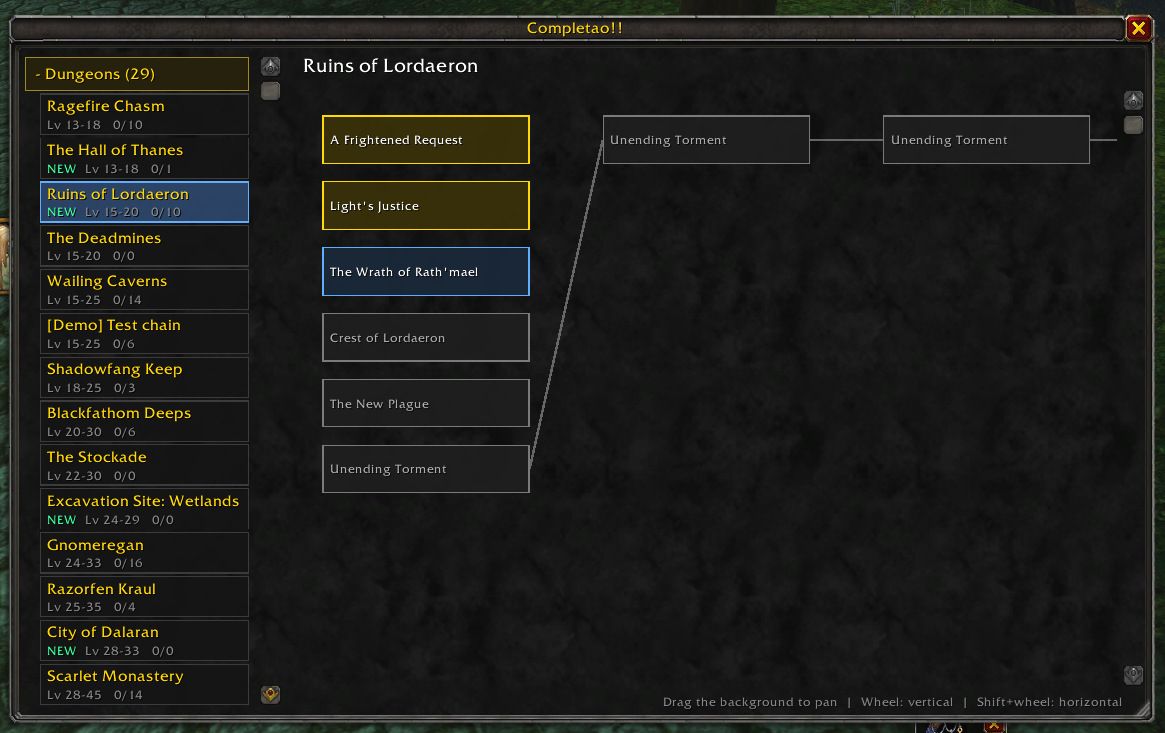
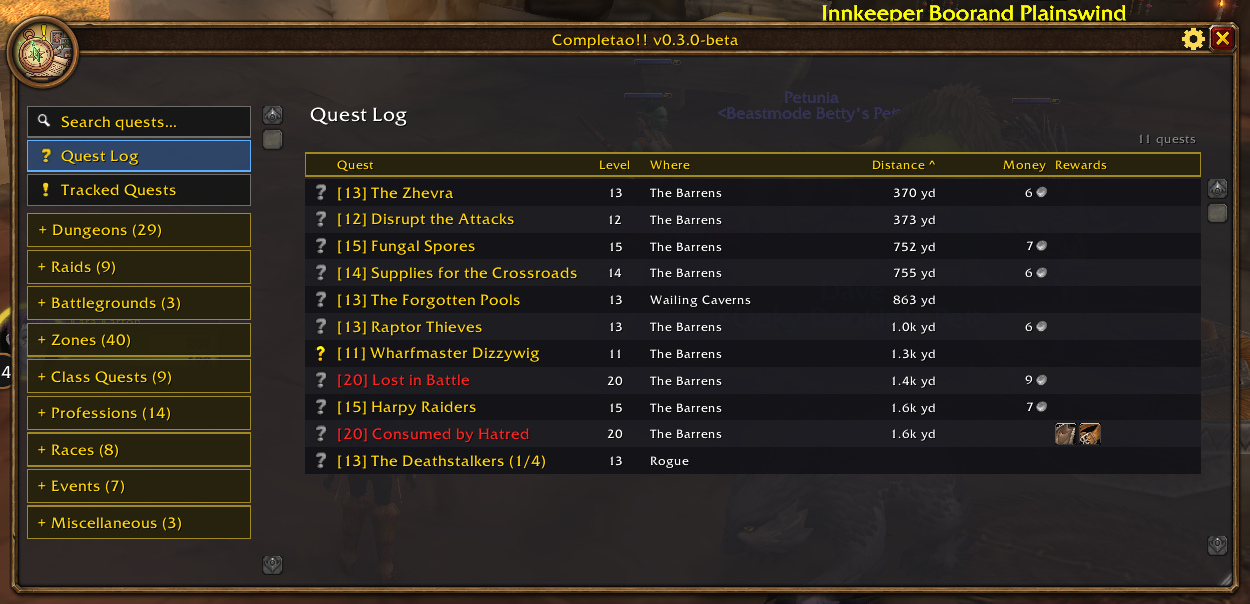
docs: new screenshots and CurseForge description for 0.3.0-beta

diff --git a/CURSEFORGE_DESCRIPTION.md b/CURSEFORGE_DESCRIPTION.md
@@ -10,7 +10,7 @@ Dungeons, raids, battlegrounds, zones, class and profession quests, races and
 world events are in, with more on the way.
 Currently in **beta**.
 
-![Main window](https://media.joanvilarino.online/completao/images/screencaps/main_window.png)
+![Your quest log, in the Completao!! window](https://media.joanvilarino.online/completao/images/screencaps/main_window.png)
 
 ---
 
@@ -24,6 +24,8 @@ and the lines between them turn green as you move down a chain. Only the quests
 of your own faction are shown. Drag the background to pan the tree and use the
 mouse wheel to **zoom** in or out to see more at once (Shift + wheel to go
 sideways, Ctrl + wheel vertically); your zoom is remembered.
+
+![A dungeon's quest chains](https://media.joanvilarino.online/completao/images/screencaps/quest_tree.png)
 
 ### A side panel that grows with the addon
 Sections are collapsible: open **Dungeons**, **Raids** (Molten Core, Blackwing
@@ -48,8 +50,26 @@ to include low-level, too-high and completed quests, or look for a reward type
 -- say, *Weapon > Wands* -- or keep only quests that give an item. Results come
 as a table with level, location, money and the reward icons (hover for the
 item tooltip), sortable by title, level or money; click one to jump to its
-tree with the quest selected. **Quest Log** shows the quests you carry in the
-same table.
+tree with the quest selected. Every row starts with the quest's `[level]`
+(`D` for dungeon quests, `+` for elite ones), and the **Distance** column shows
+how far each quest's next step is from you -- sort by it and the table re-sorts
+as you move.
+
+![Searching for leather armor rewards](https://media.joanvilarino.online/completao/images/screencaps/search_quests.png)
+
+### Your quest log, and the quests you track
+**Quest Log** shows the quests you carry in the same table, with a status icon
+(ready to hand in / in progress) next to each, colored by difficulty for your
+level.
+
+![The Quest Log view](https://media.joanvilarino.online/completao/images/screencaps/quest_log.png)
+
+**Tracked Quests** narrows it to the ones in your objective tracker and lists,
+under each quest, its objectives with live progress: finished ones checked, the
+next one in gold, and only the turn-in once the quest is ready. Click an
+objective to set your waypoint on it.
+
+![The Tracked Quests view](https://media.joanvilarino.online/completao/images/screencaps/tracked_quests.png)
 
 ### Filters that keep the tree readable
 Above the tree, a **search box** finds a quest by title and three checkboxes
@@ -82,7 +102,8 @@ every other quest and connection fades back. Close the panel to return to the
 full tree.
 
 ### Everything about a quest, one click away
-Click any quest in the tree to open its panel:
+Click any quest in the tree to open its panel -- or click one in Search, Quest
+Log or Tracked Quests and its details open right below the table:
 
 - **Requirements** -- prerequisite quests and level, in green when you meet
   them and red when you don't.
@@ -95,8 +116,10 @@ Click any quest in the tree to open its panel:
   experience and reputation.
 - A **maximize / restore** button (Blizzard's own) to read the text over the
   whole tree.
+- **View chain**, for quests that belong to a chain: jumps to its tree with the
+  quest selected.
 
-![The quest panel, with a locked quest's tooltip](https://media.joanvilarino.online/completao/images/screencaps/quest_info_pane.png)
+![A quest's details, below the Tracked Quests table](https://media.joanvilarino.online/completao/images/screencaps/quest_info_pane.png)
 
 ![The quest panel maximized, with the requirement still missing](https://media.joanvilarino.online/completao/images/screencaps/maximize_pane_unavailable_quest.png)
 
@@ -137,6 +160,10 @@ Click any quest in the tree to open its panel:
   while you walk or run, so it never hides what is ahead, and comes back when you
   stop or when the cursor is over it. `/completao fade <10-100>` changes how
   much (100 = no fade).
+- **Click-through**: let the mouse pass through the window in combat and/or
+  while you move (separate settings), with its own opacity in combat.
+- **Sync with Blizzard Quest Log**: the window opens and closes with the game's
+  quest log, and selecting a quest there opens it -- and its chain -- here.
 - Completion is always read live from the game, so it is never out of date.
 
 ![The minimap button](https://media.joanvilarino.online/completao/images/screencaps/minimap_button.png)
